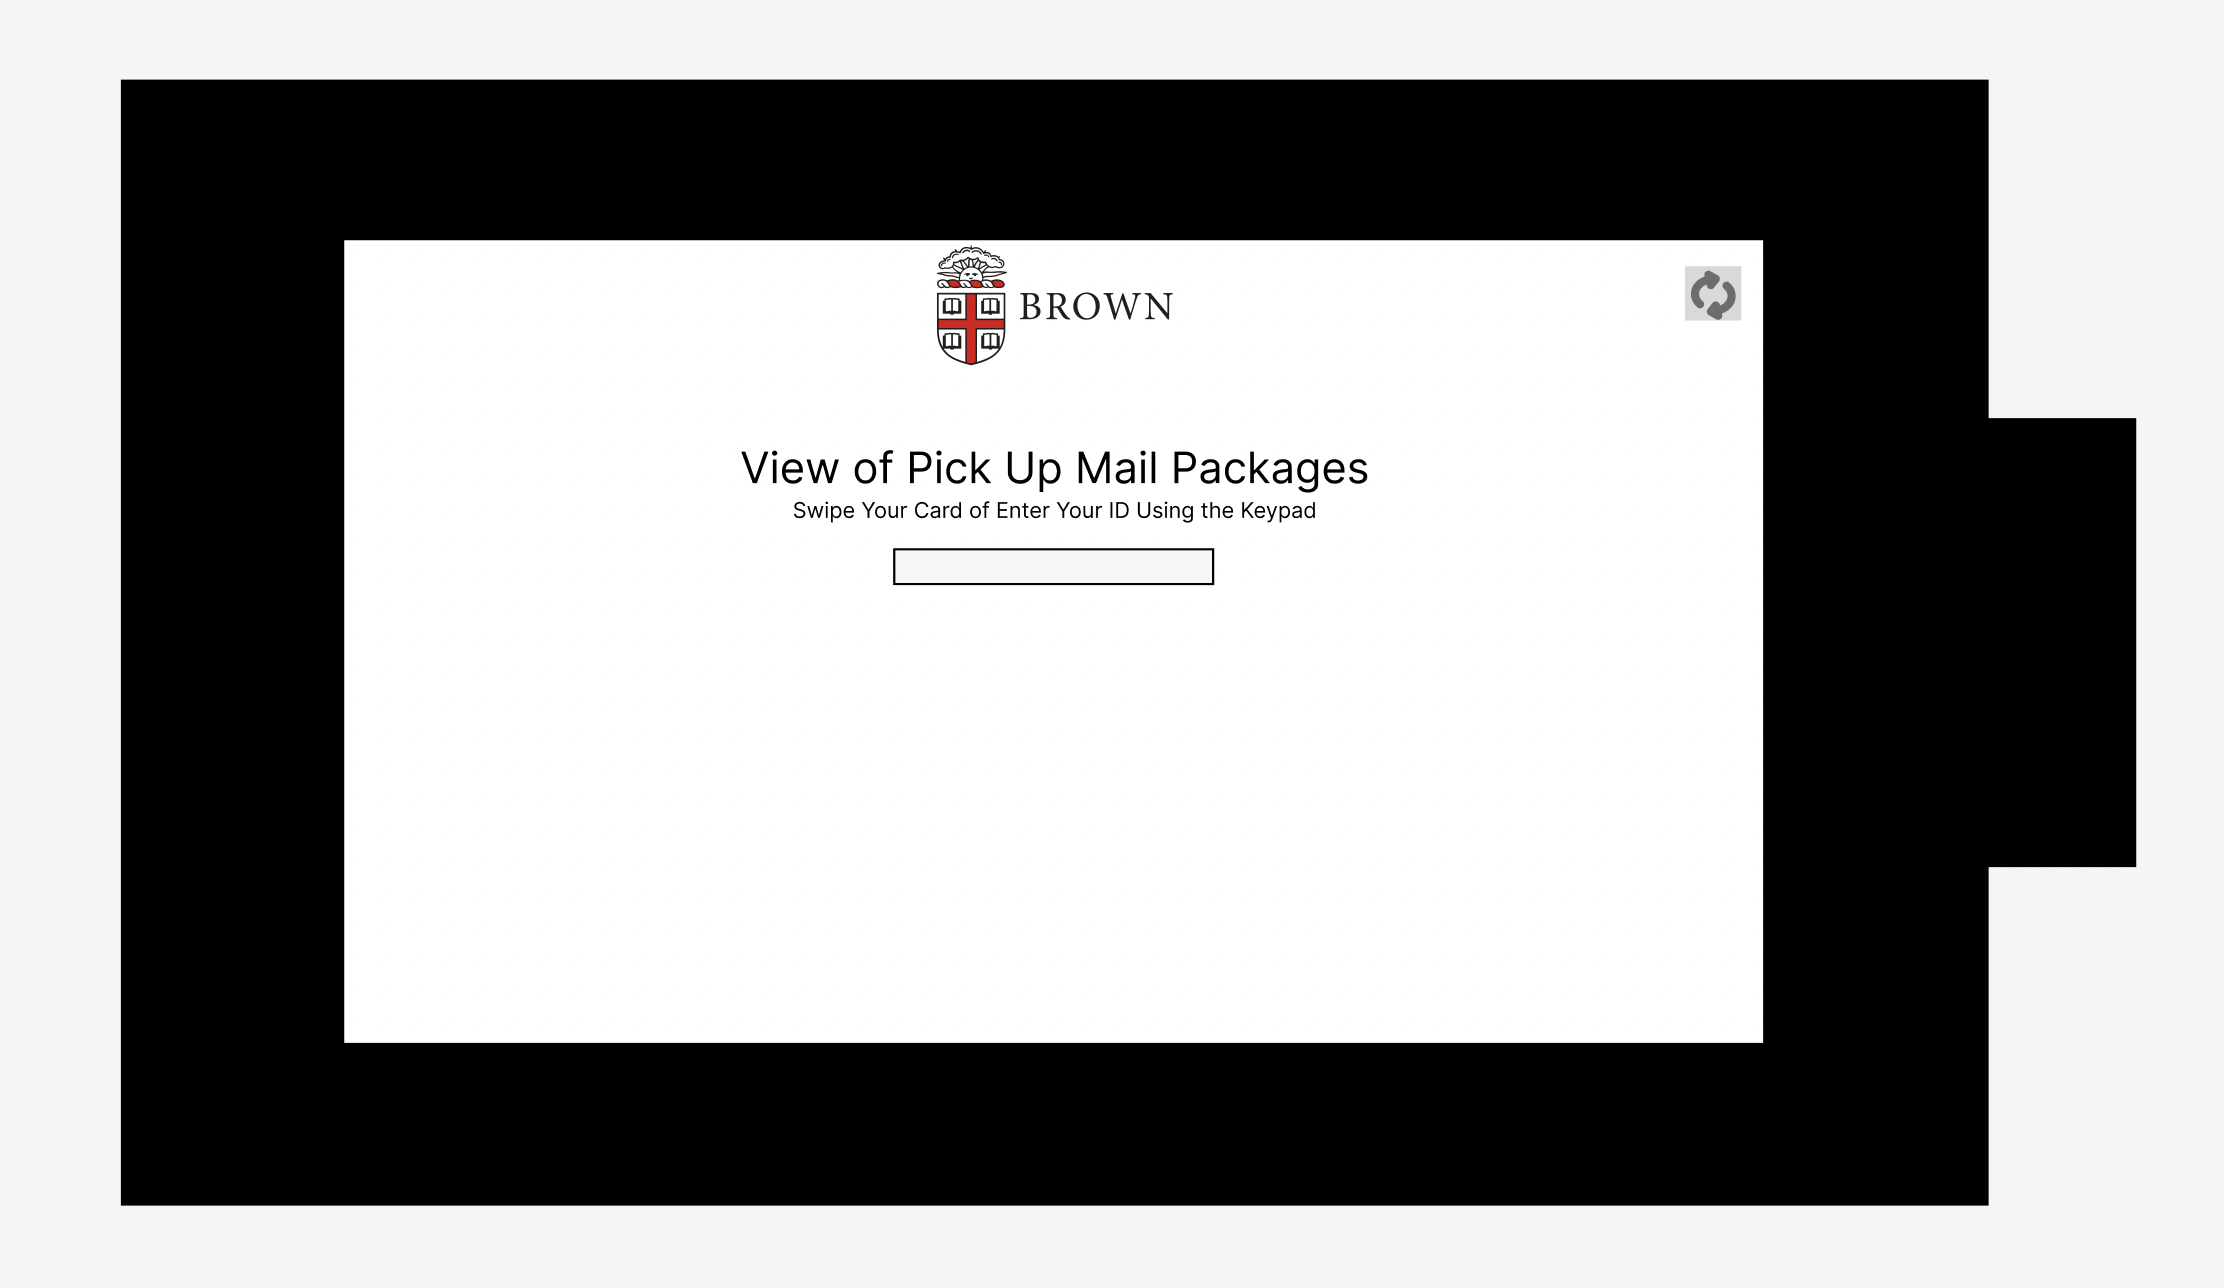
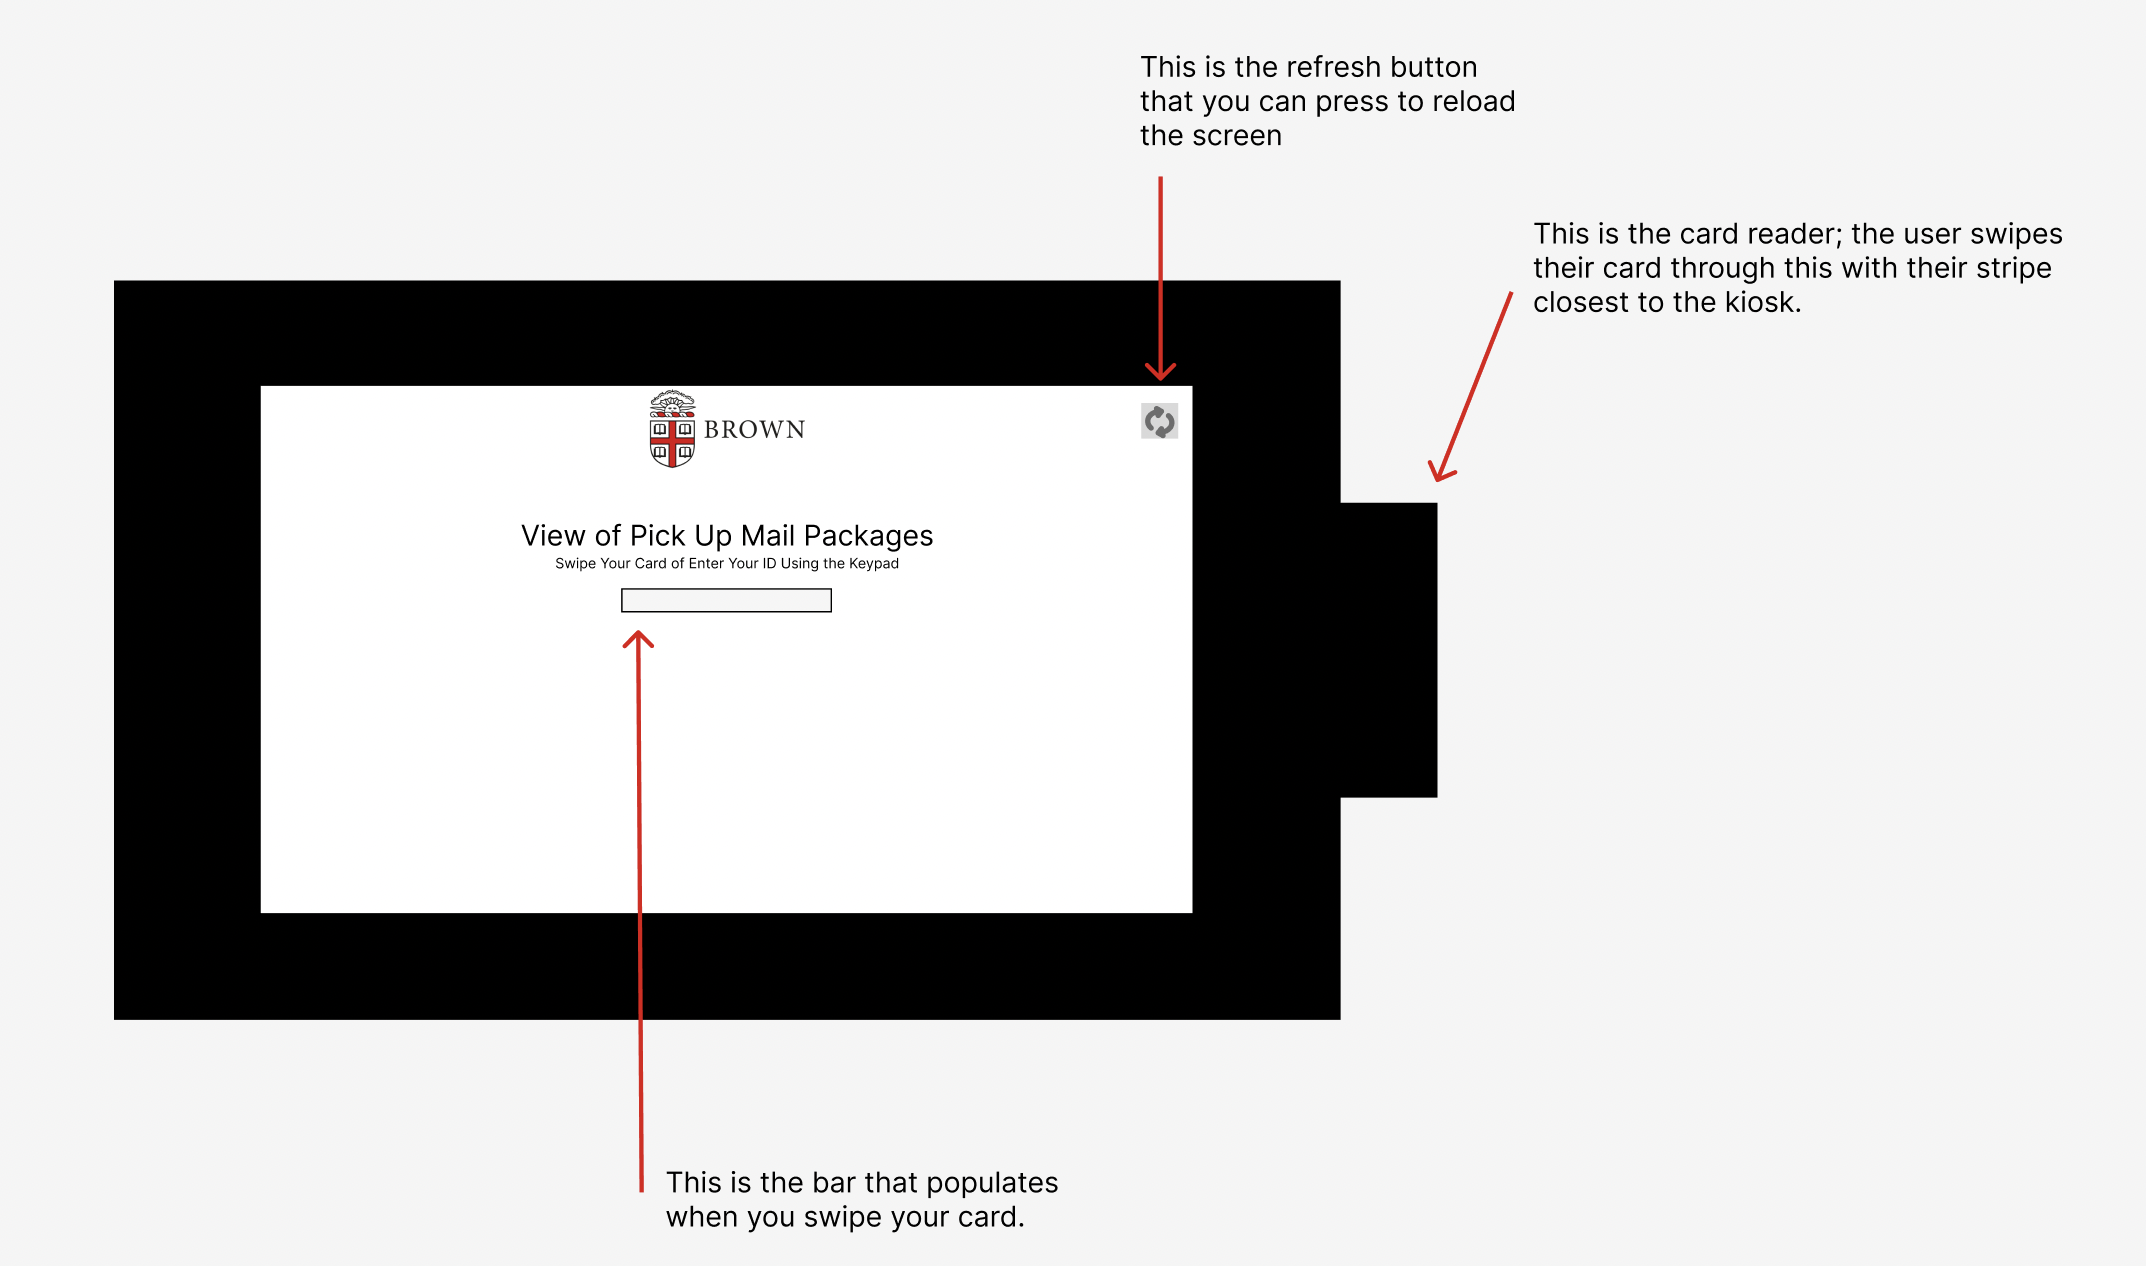
personas

diff --git a/src/components/Storyboard.js b/src/components/Storyboard.js
@@ -1,17 +1,126 @@
 import React from "react";
-import "./AboutMe.css";
+import "./Storyboard.css";
 import Card from '@mui/material/Card';
 import CardContent from '@mui/material/CardContent';
 import CardMedia from '@mui/material/CardMedia';
 import Typography from '@mui/material/Typography';
-import { CardActionArea } from '@mui/material';
+
+import lofidesk from "../images/redesign/desktop-lofi-scroll.png";
+import lofitablet from "../images/redesign/tablet-lofi-scroll.png";
+import lofimobile from "../images/redesign/mobile-lofi-scroll.png";
+import vsg from "../images/redesign/vsg.png";
+import kiosk from "../images/kiosk.png";
+import tiredteal from "../images/tired-teal.png"
 
 const Storyboard = () => {
     return  <div className="background">
-    <div className="storyboard-space">
-   <h1> Storyboard & Personas</h1>
+    <div className="background-1">
+            
+    <div className="iterative-space">
+   <h1> Personas & Storyboarding: Interfacing with Brown's mailroom kiosk</h1>
+   <div>    In this project, I considered the kiosk interface outside of the mailroom. I centered the personas and 
+       storyboards around the kiosk -- how people interact with the kiosk day to day and what they're thinking and 
+       feeling why they're using it. </div>
+        
+        <hr/>
+        <div class="section">
+            <div class="subsection">
+                <h2>01. Choosing the Interface </h2>
+                <h3>Why the Kiosk?</h3>
+                <p> The requirement was to choose a public, easily accessible interface that people interact with on a daily basis.
+                    Having retrieved many packages from the Mailroom throughout my years at Brown, I thought that the Brown 
+                    Mailroom Kiosk would be an interesting interface to observe.
+                </p>
+                <h3>Interface Breakdown</h3>
+                
+                <p>Below, you can see an annotated sketch of the mailroom kiosk. I noted all of the important features
+                    that are visible when you interact with the interface.  </p>
+                <div className="kiosk-pic"> 
+                <img src={kiosk} className="kiosk"/>
+                </div>
+                
+
+            </div>
+        </div>
+        <div class="section">
+            <div class="subsection">
+                <h2>02. Researching Users</h2>
+                <h3>Observations</h3>
+                <p>To create the personas and their corresponding storyboards, I observed and interviewed users of the Brown Mailroom kiosk. 
+                    I ensured that I had the users' consent before I conducted this analysis.
+                </p>
+                <p> Key observations
+                </p>
+                <ul>
+                <li>All users approached the interface with their card already in their hand. </li>
+                <li>They would then swipe their card through the card reader. Lastly, they would press the “Pick up now” button on the screen. </li>
+                <li> The first two users swiped their card stripe down; the third user swiped their card stripe up; the last user swiped their card 
+                    once stripe down and then had to re-swipe (this time stripe down) as the card reader did not read the card correctly. </li>
+                </ul>
+                <h3>Interviews</h3>
+                <p>I interviewed three different individuals who interacted with the kiosk. The questions I asked were as follows:</p>
+                <ul>
+                <li>Is there anything you think is missing in the kiosk design? </li>
+                <li>Do you experience any issues when you swipe your card? Does the card reader consistently work?</li>
+                <li> Are there any features you think you would like to be included in the future? </li>
+                <li>  Do you think that this system is efficient?  </li>
+                <li> Do you come here where you're in a rush? </li>
+                </ul>
+                <p> Generally, people had similar experiences with the interface.  
+                    All three individuals found the kiosk intuitive when they first tried to use it. However, despite how simple they 
+                    find it to use, they don't go to the mailroom when they're in a rush due to the overwhelming number of people in the mailroom.
+                <p> The interviewees also had some interesting suggestions for how the school could improve the kiosk experience.</p>
+                    <ul> 
+                        <li> One person mentioned that it would be helpful if the kiosks had better card readers and that they frequently had to swipe 
+                            their card numerous times in order for the card reader to register the card correctly</li> 
+                        <li> One common recommendation was to add a feature that would allow you to select which packages you could pick up; that way, 
+                            if you had a large volume, you wouldn’t have to pick them up all at once, or if you had a few packages and one very large package, 
+                            you could just pick up your large package</li>
+                        <li> Another suggestion was that there be some sort of indicator on the kiosk that says how long your expected wait time is to 
+                            pick up the item; that way, if you’re in a rush or if you have to run a quick errand, you know how long you have before 
+                            the people in the mailroom call your name to give you your package</li>                     
+                    </ul> 
+
+
+            </p>
+            </div>
+        </div>
+        <hr />
+
+        <div class="section">
+            <div class="subsection">    
+            <h2>03. Creating Personas</h2>
+            <p> Following these observations and interviews, I created two personas: Tired Teal and Busy Bob. These personas were 
+                inspired by the kiosk users I observed and the information I gathered during the interview process.  </p>
+            <h3>Tired Teal</h3>
+            <p> The first persona I created was Tire Teal. Tired Teal is a senior at Brown and is going through full-time recruiting,
+                 and she just remembered it is the last day she can pick up her packages that have been in the mailroom for 30 days. Part
+                 of Brown's Mailroom policy is that if you have left your package unclaimed in the mailroom for 30 days, then the mailroom
+                 will throw it out. Therefore, although Tired Teal is very busy and exhausted, she has to rush over to the mailroom to pick it up.
+                    </p>
+            <div className="tired-teal-div">
+                <img src={tiredteal} className="tired-teal"/> 
+            </div>
+                
+            <h3>Busy Bob</h3>
+            </div>
+        </div>
+        
+      </div>
+
+      <hr />
+
+
+        <div class="section">
+            <div class="subsection">
+                <h2>04. Reflection</h2>
+                <p> ...
+                     </p>
+
+            </div>
+        </div>
     </div>
-</div>
+    </div>
 };
 
 export default Storyboard;

diff --git a/src/components/Redesign.js b/src/components/Redesign.js
@@ -18,8 +18,8 @@ const Redesign = () => {
             
     <div className="iterative-space">
    <h1> Responsive Redesign: Redesigning Frey & Florist Greenhouses </h1>
-   <div>     In this project, we were told to choose a poorly design website -- determined by a general usability and navigational
-       qualities -- and recreate a new and improved version.</div>
+   <div>     In this project, I chose a poorly designed website -- determined by a general usability and navigational
+       qualities -- and recreated a new and improved version.</div>
         
         <hr/>
         <div class="section">
@@ -127,9 +127,10 @@ const Redesign = () => {
             I thought it would give me a clean, hollistic view of what I was going to create in HTML. Additionally, I considered 
             what the code structure would look like -- ie. Where would I use flexboxes? When would I use a header as opposed to 
             normal text to indicate webpage hierarchy? These more technical decisions are annotated on the hifi wireframes seen below. </p>
-       
-
-        <p>words</p>
+    
+    <div className="block">
+    <a className="finished" href="https://umkvfl6hssq7hfks.github.io/responsive-redesign-website/">The finished product</a>
+    </div>
         
         
       <hr />
@@ -137,12 +138,11 @@ const Redesign = () => {
         <div class="section">
             <div class="subsection">
                 <h2>03. Reflection</h2>
-            <ol>
-                <li></li>
-                <li></li>
-                <li>
-                </li>
-            </ol>
+                <p> This project was a great introduction to a full ideation process; the many iterations of my designs allowed me to hone my
+                    design and see the process through from start to finish.
+                    I did ulimately have some issues trying to implement the hamburger menu for the smaller screen sizes; this is 
+                    something I plan to explore further when I revise this webpage later on in the semester and have more web devevlopment experience. 
+                     </p>
 
             </div>
         </div>

diff --git a/src/components/Iterative.js b/src/components/Iterative.js
@@ -47,7 +47,7 @@ const Iterative = () => {
             <p>Given the popularity of dating apps amongst young people, we thought Roomkast users would feel the most familiar with a similar interface but centered around finding a roommate rather than a romantic partner.</p>
         </div>
       </div>
-      <hr />
+      <hr/>
       <div class="section">
         <div class="subsection">
             <h2>02. Ideating the Design </h2>
@@ -69,6 +69,7 @@ const Iterative = () => {
         <p>From our discussion, we combined our sketches to produce a final set of wireframes we would use to create our high-fidelity prototype.</p>
         
         <RoomCarousel2/>
+        <hr/>
         <div class="section">
             <div class="subsection">
                 <h2>03. Prototyping the Roomkast App</h2>
@@ -218,6 +219,7 @@ const Iterative = () => {
         </div>
         <div class="section">
             <div class="subsection">
+            <hr/>
                 <h2>05. Reflection</h2>
             <ol>
                 <li>We were able to turn our wireframes into an intuitive and functional prototype</li>

diff --git a/src/components/Storyboard.css b/src/components/Storyboard.css
@@ -49,9 +49,24 @@ h2, h3, h4{
     padding-top: 15px;
 }
 
+.kiosk-pic {
+    display: flex;
+    justify-content: center;
+    padding: 15px;
+}
 
-.img{
-    width: 600px;
+.kiosk{
+    max-width: 70%;
+}
+
+.tired-teal{
+    max-width: 70%;
+}
+
+.tired-teal-div {
+    display: flex;
+    justify-content: center;
+    padding: 15px;
 }
 
 .story-card-responsive {

diff --git a/src/components/Iterative.css b/src/components/Iterative.css
@@ -17,13 +17,13 @@
     border-style: solid;
     border-color: white;
     border-radius: 100px;
-    padding: 5px;
+    padding: 15px;
     border-width: 25px;
     background-repeat: repeat;
 }
 .img-wrapper img{
-    display: block;
-    
+    display: flex;
+    justify-content: center;
 }
 .room-desc{
     max-width: 500px;

diff --git a/src/components/AnimeList.css b/src/components/AnimeList.css
@@ -18,7 +18,7 @@
     border-style: solid;
     border-color: white;
     border-radius: 100px;
-    padding: 5px;
+    padding: 15px;
     border-width: 25px;
     background-repeat: repeat;
 }
